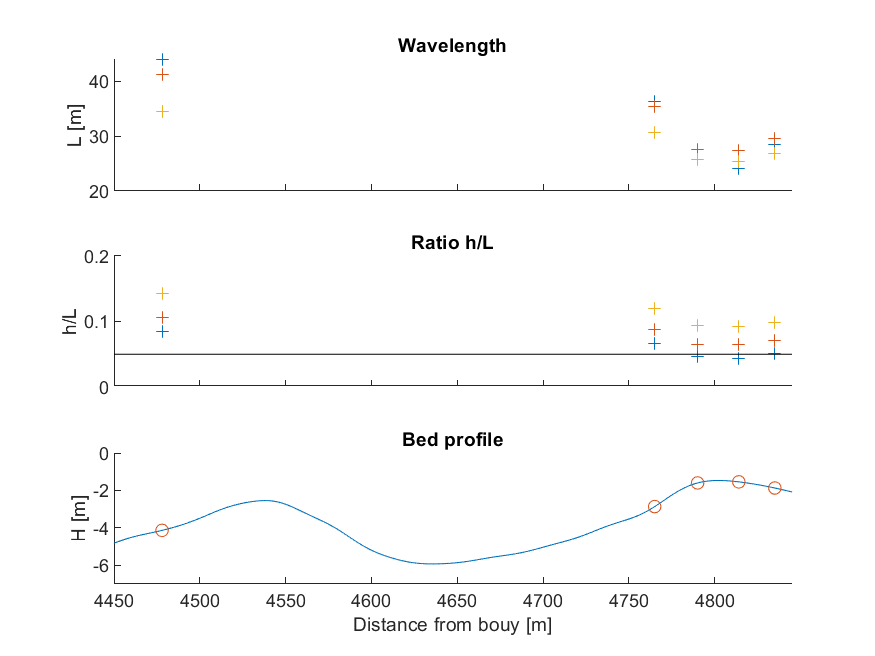
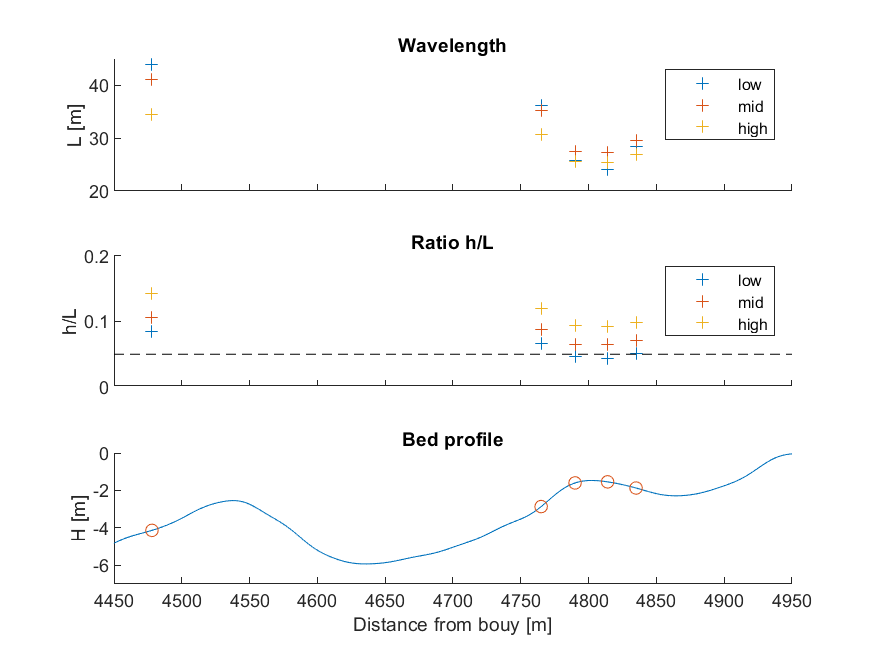
update figures E

diff --git a/Chapter_02_03/E_linear_waves_egmond.m b/Chapter_02_03/E_linear_waves_egmond.m
@@ -35,7 +35,7 @@ hL = h ./ L; % calculate the ratio h/L (elementwise)
 
 %% FIGURE
 x_left = 4450; % minimum value for x in plots
-x_right = max(x_p)+10; % maximum value
+x_right = 4950; % max(x_p)+100; % maximum value
 
 figure;
 pbaspect([2 1 1]) % set aspect ratio (?)
@@ -47,23 +47,26 @@ for i = 1:n_t % loop over all tides
 end
 hold off
 xlim([x_left, x_right])
+ylim([20, 45])
 set(gca, 'xticklabel', []) % remove xticklabels
 title('Wavelength')
 ylabel('L [m]')
+legend('low', 'mid', 'high')
 
 subplot(3,1,2);
 hold on
 for i = 1:n_t % loop over all tides
     scatter(x_p, hL(:,i), '+') % plot h/L (points)
 end
-plot([x_left, x_right], 0.05*ones(2, 1), 'k') % plot horizontal line for shallow water
-plot([x_left, x_right], 0.5*ones(2, 1), 'k') % plot horizontal line for deep water
+plot([x_left, x_right], 0.05*ones(2, 1), '--k') % plot horizontal line for shallow water
+plot([x_left, x_right], 0.5*ones(2, 1), '--k') % plot horizontal line for deep water
 hold off
 xlim([x_left, x_right])
 ylim([0, 0.2])
 title('Ratio h/L')
 ylabel('h/L')
 set(gca, 'xticklabel', []) % remove xticklabels
+legend('low', 'mid', 'high')
 
 subplot(3,1,3)
 hold on

diff --git a/Chapter_02_03/D_linear_waves_theory.m b/Chapter_02_03/D_linear_waves_theory.m
@@ -56,8 +56,8 @@ hold on
 for i = 1:n_t % loop over all periods
     plot(h, hL(:,i)) % plot ratio h/L
 end
-plot(h, 0.05*ones(n_h, 1), 'k', 'LineWidth', 1) % plot horizontal lines for shallow water
-plot(h, 0.5*ones(n_h, 1), 'k', 'LineWidth', 1) % plot horizontal lines for deep water
+plot(h, 0.05*ones(n_h, 1), '--k', 'LineWidth', 1) % plot horizontal lines for shallow water
+plot(h, 0.5*ones(n_h, 1), '--k', 'LineWidth', 1) % plot horizontal lines for deep water
 hold off
 legend('T = 6 s', 'T = 9 s', 'T = 12 s', 'Location', 'SouthEast')
 xlabel('h [m]')

diff --git a/Chapter_02_03/phase_velocity.m b/Chapter_02_03/phase_velocity.m
@@ -1,6 +1,6 @@
 function [c] = phase_velocity(T, h)
 % Calculates the phase velocity c from the wave period T and the water depth h, 
-% from c = omega / k, where sigma is the wave frequency
+% from c = omega / k, where omega is the wave frequency
 % input  T wave period (s)
 %        h water depth (m)
 % output c phase velocity (m/s)
